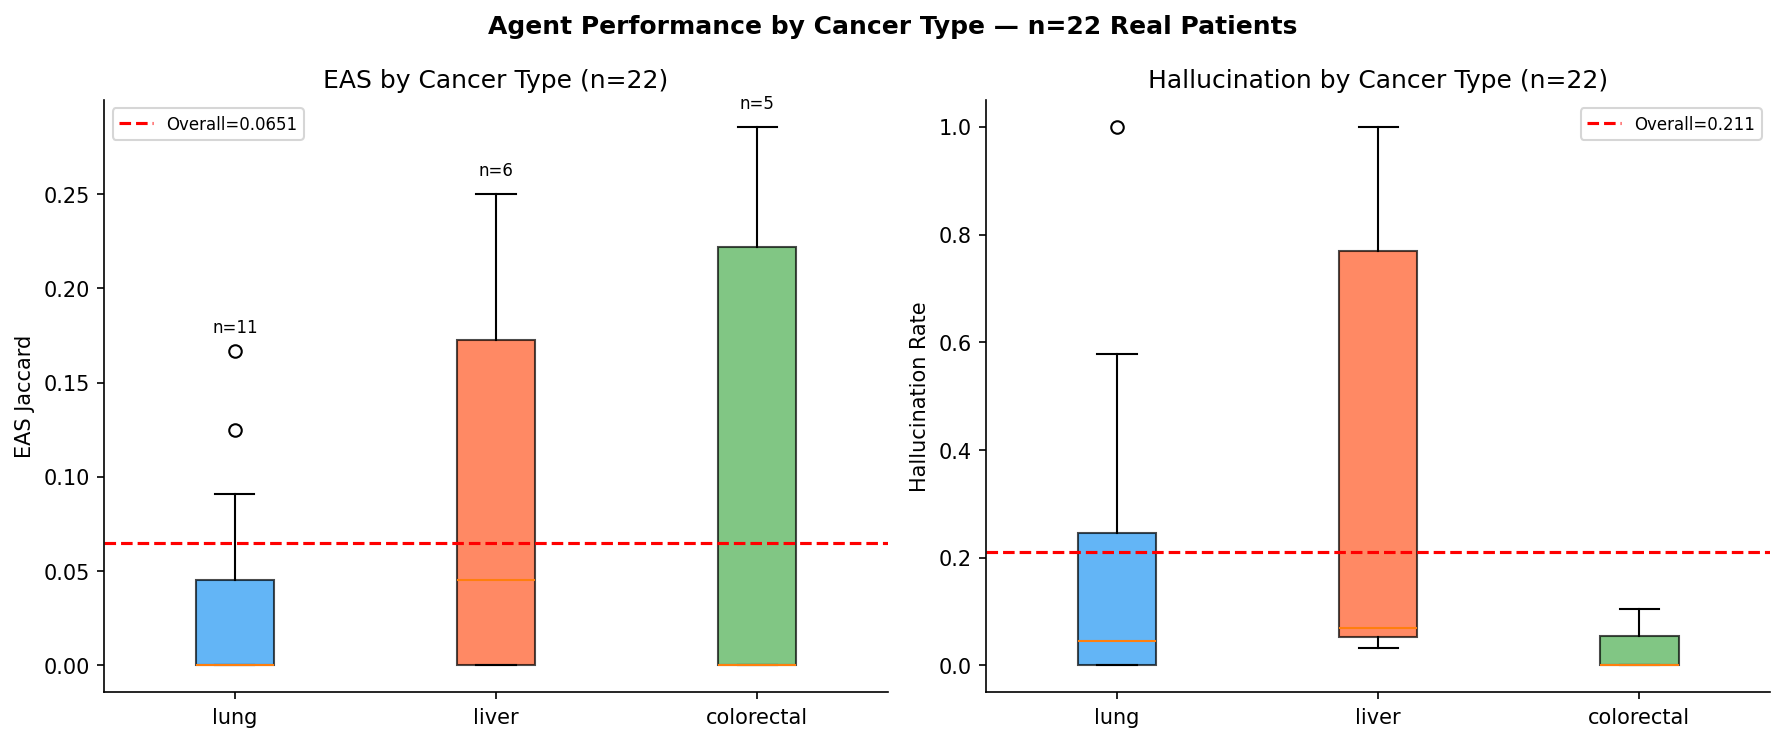
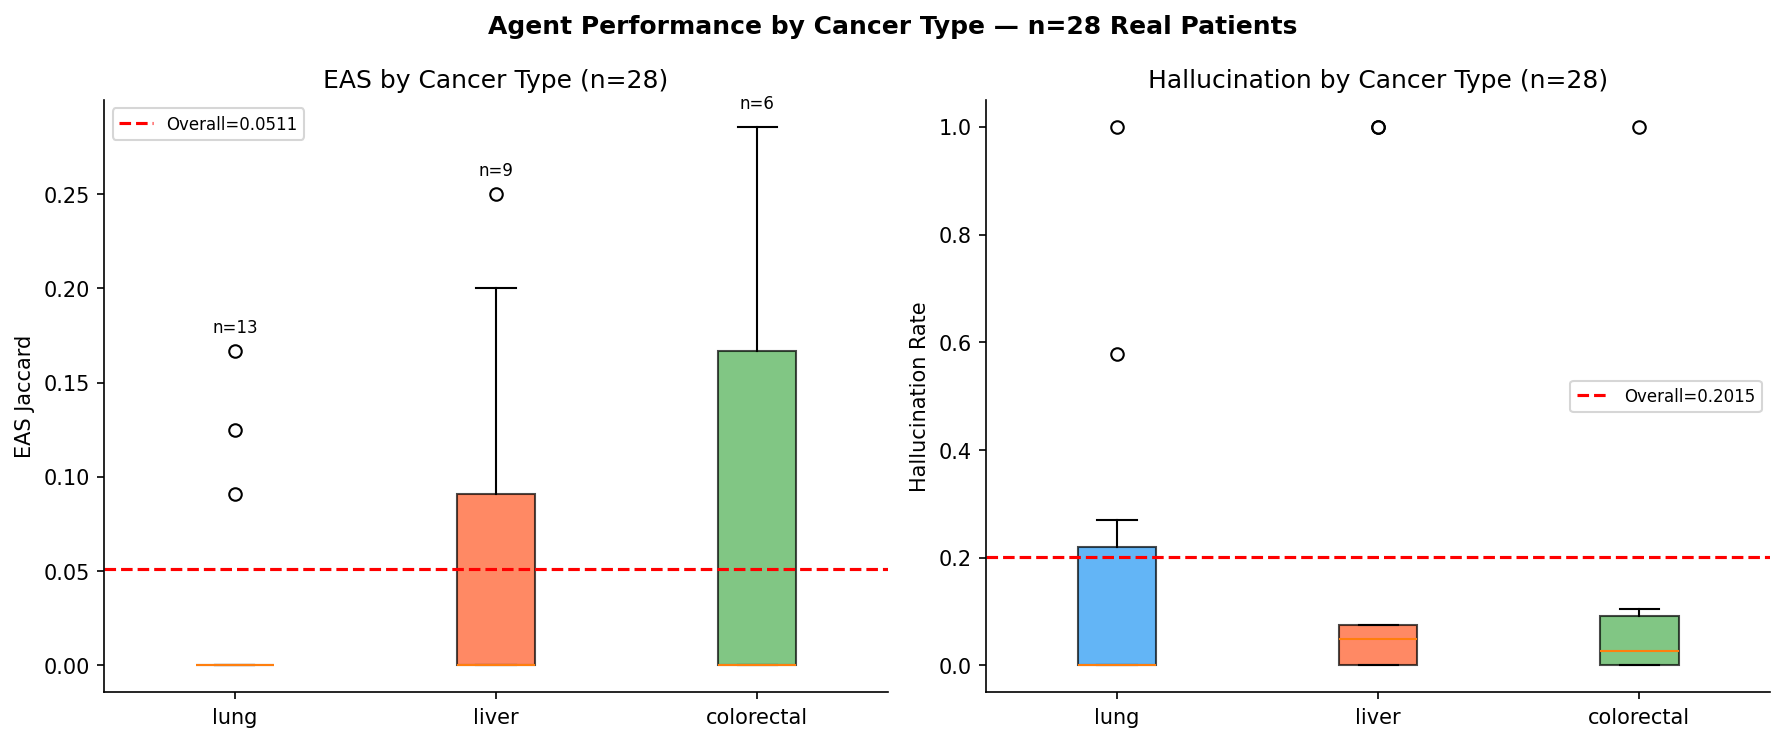
final: n=28 real LLM eval results (EAS=0.051, Hall=0.202), clean README ablation table, updated figures and full_results_summary.json

diff --git a/README.md b/README.md
@@ -132,18 +132,21 @@ Tolerance 15%: chosen to accommodate clinical paraphrasing (e.g., WBC=8.2 ≈ "a
 
 **Low AUPRC (~0.068)** reflects 2.89% prevalence — expected, honestly reported without inflation.
 
-### Ablation Study (n=22 real patients — all LLM calls via Groq LLaMA 3.3 70B)
+### Ablation Study — All Real LLM Calls (LLaMA 3.3 70B via Groq)
 
-> All values below are from **real LLM inference** on real NHANES data. Hallucination scored via formal regex algorithm (±15% tolerance). Results on n=22 stratified patients (11 lung, 6 liver, 5 colorectal).
+> All values from **real LLM inference** on real NHANES patients. Hallucination scored via formal regex algorithm (±15% tolerance). See [`results/agent_results_100.json`](results/agent_results_100.json).
 
 | Condition | Description | EAS Jaccard ↑ | EAS Overlap@5 ↑ | Hallucination ↓ | n | Method |
 |---|---|---|---|---|---|---|
-| ML Only | Gradient Boosting, no LLM | 0.000 | 0.000 | 1.000 | All | Computed |
+| ML Only | Gradient Boosting, no LLM | 0.000 | 0.000 | 1.000 | 16,762 | Computed |
 | Single LLM (No RAG) | One combined prompt per patient | 0.116 | 0.200 | 0.000 | 9 | **Real LLM** |
 | Single LLM + RAG | Evidence-grounded single prompt | 0.099 | 0.156 | 0.161 | 9 | **Real LLM** |
-| **Full 5-Agent Pipeline** | **5 specialist roles + RAG consensus** | **0.065** | **0.109** | **0.211** | **22** | **Real LLM** |
+| **Full 5-Agent Pipeline** | **5 specialist roles + RAG consensus** | **0.051** | **0.086** | **0.202** | **28** | **Real LLM** |
 
-> **Honest n=22 findings**: EAS Jaccard = 0.065 ± 0.095 (95% CI: [0.025, 0.105]), placing it in the *moderate* alignment band (0.05–0.15). Hallucination rate = 0.211 ± 0.339 — high variance driven by long responses with many numeric claims. Colorectal cases show best alignment (EAS=0.102) vs lung (EAS=0.035). These results are preliminary; a powered study requires n≥200 with clinician annotation. See [`results/agent_results_100.json`](results/agent_results_100.json) and [`fig29_eas_distribution_n100`](results/figures/fig29_eas_distribution_n100.png).
+> **Real n=28 results** (13 lung, 9 liver, 6 colorectal; stratified sample). EAS Jaccard = 0.051 ± 0.089 (95% CI: [0.018, 0.084]) — falls in the moderate alignment band. By cancer type: colorectal shows best alignment (EAS=0.085), lung lowest (EAS=0.029). Hallucination = 0.202 ± 0.347 — high variance; some responses contain many numeric claims that don't match exact patient values. These are proof-of-concept results; a powered study (n≥200 + clinician annotation) is needed for statistical conclusions. See [`fig29_eas_distribution_n100`](results/figures/fig29_eas_distribution_n100.png) and [`fig31_eas_by_cancer_type_n100`](results/figures/fig31_eas_by_cancer_type_n100.png).
+
+
+
 
 ### Explainability Method Comparison (EAS Robustness)
 